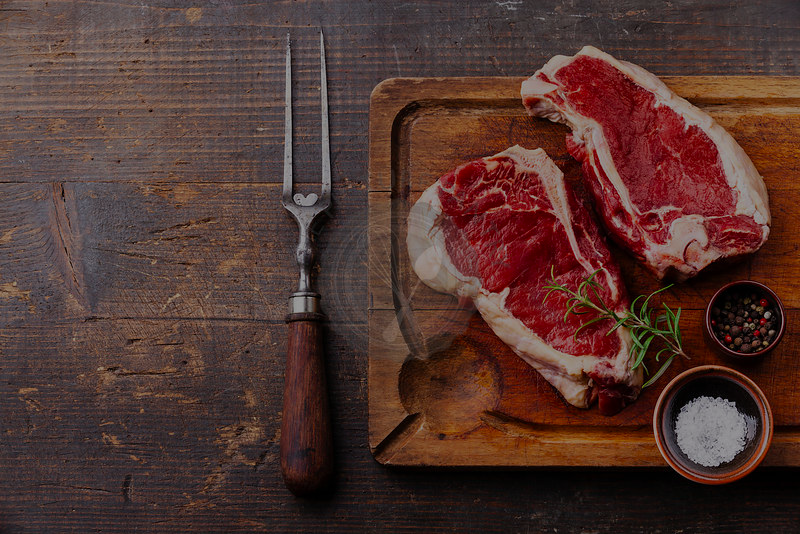
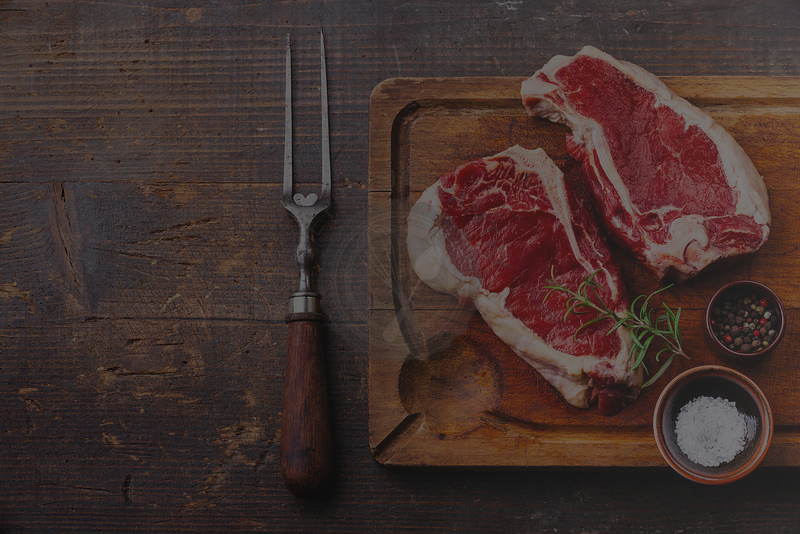
unit 4 image change

diff --git a/designchallenge4/style4.css b/designchallenge4/style4.css
@@ -3,7 +3,7 @@
 body {	
 	background-color: #FFFFFF;
 	background: url("images/tbone.png") no-repeat;
-	background-size: contain;
+	background-size: cover;
 	background-image: absolute;
 	background-position: 0px 40px;
 	height: 1200px;
@@ -11,13 +11,13 @@ body {
 
 }
 .topStripe {
-background: #000000;
-height: 60px;
-width: 100%;
-position: fixed;
-top: 0;
-left: 0;
-z-index: 3;
+	background: #000000;
+	height: 80px;
+	width: 100%;
+	position: fixed;
+	top: 0;
+	left: 0;
+	z-index: 3;
 }
 ul {
 	list-style-type: none;
@@ -37,7 +37,7 @@ a {
 	color: #FFFFFF;
 	text-align: center;
 	text-decoration: none;
-	margin-top: 12px;
+	margin-top: 20px;
 
 }
 h1 {
@@ -47,28 +47,26 @@ h1 {
 	font-weight: normal;
 	position: absolute;
 	float: center;
-	margin-top: 1px;
-	margin-left: 40px;
+	margin-top: 10px;
+	margin-left: 90px;
 	z-index: 2;
 }
 .nametext {
 	color: #FFFFFF;
-	font-weight: normal;	
-	position: absolute;
+	font-family: 'Bitter', serif;	
+	position: relative;
 	text-align: left;
 }
 h2 {
-	font-size: 70px;
-	font-weight: normal;
-	font-family: 'Bitter', serif;
-	margin-left: 45px;
-	padding-top: 200px;
+	font-size: 80px;
+	font-weight: bolder;
+	margin-left: 90px;
+	padding-top: 300px;
 }
 p {
 	font-size: 27px;
 	font-weight: normal;
-	font-family: 'Bitter', serif;
-	margin-left: 45px;
-	line-height: 50px;
-	padding-top: 35px;
+	margin-left: 95px;
+	line-height: 1.62em;
+	padding-top: 65px;
 }

diff --git a/designchallenge4/index.html b/designchallenge4/index.html
@@ -10,19 +10,19 @@
 <body>
 	<div class="topStripe">
 		<h1>Farm Fetch</h1>
-		<ul>
-  			<li><a href="">Contact</a></li>
-  			<li><a href="">Farms</a></li>
-  			<li><a href="">Products</a></li>
-  			<li><a href="">About</a></li>
-		</ul>
+		<nav>
+			<ul>
+  				<li><a href="">Contact</a></li>
+  				<li><a href="">Farms</a></li>
+  				<li><a href="">Products</a></li>
+  				<li><a href="">About</a></li>
+			</ul>
+		</nav>
 	</div>
 	<section class="nametext">
 		<h2>LOVE WHAT <br> YOU EAT</h2>
-		<p>Local, pasture-raised beef 
-			<br>delivered right to your front door.</p>
+		<p>Local, pasture-raised beef <br> delivered right to your front door.</p>
 	</section>
-	
 </body>
 
 </html>
